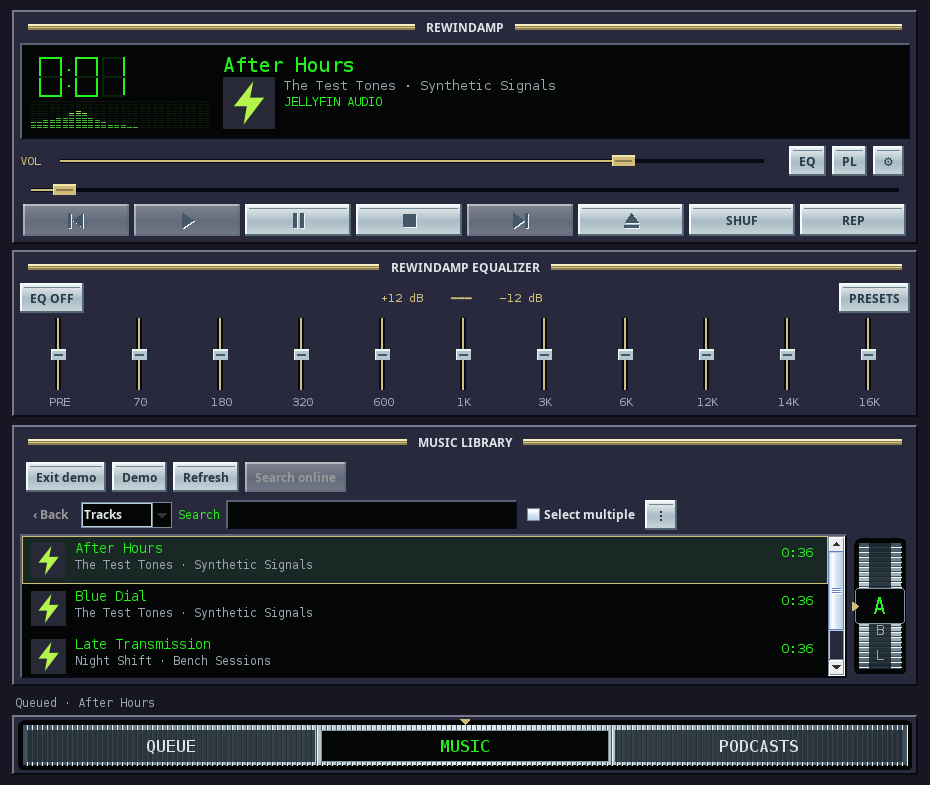
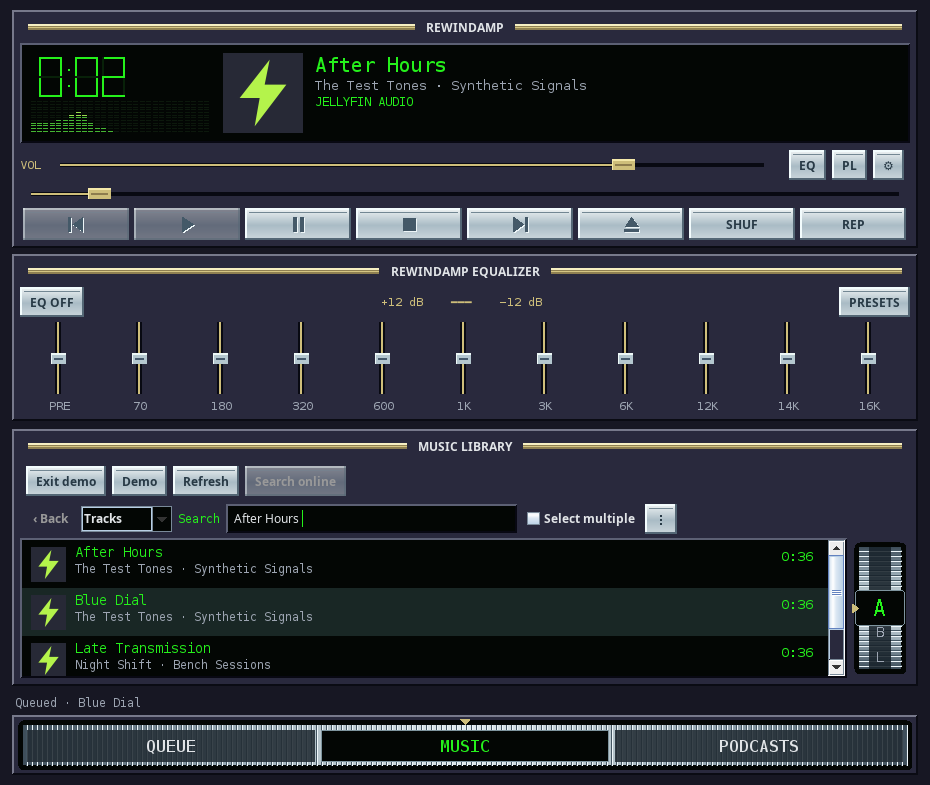
Polish Linux playback controls, artwork and Mixarr sign-in

diff --git a/linux/src/main/java/dev/rewindamp/DesktopApp.java b/linux/src/main/java/dev/rewindamp/DesktopApp.java
@@ -5,6 +5,7 @@ import java.awt.BorderLayout;
 import java.awt.Component;
 import java.awt.Dimension;
 import java.awt.GraphicsEnvironment;
+import java.awt.KeyboardFocusManager;
 import java.awt.Rectangle;
 import java.awt.event.*;
 import java.io.IOException;
@@ -27,6 +28,7 @@ import java.util.function.Consumer;
 import javax.swing.*;
 import javax.swing.event.DocumentEvent;
 import javax.swing.event.DocumentListener;
+import javax.swing.text.JTextComponent;
 import org.json.JSONArray;
 import org.json.JSONObject;
 
@@ -35,6 +37,7 @@ final class DesktopApp {
     private final Path data;
     private final DesktopStore preferences;
     private final JFrame frame = new JFrame("Rewindamp");
+    private final java.awt.Image appIcon = new ImageIcon(DesktopApp.class.getResource("/dev.rewindamp.png")).getImage();
     private final ExecutorService io = Executors.newFixedThreadPool(5);
     private final JTabbedPane tabs = new JTabbedPane();
     private final Title title = new Title();
@@ -98,6 +101,7 @@ final class DesktopApp {
         player = new DesktopPlayer(preferences, this::playerChanged, this::say);
         mediaKeys = new DesktopMediaKeys(this::mediaCommand);
         mixarr = new DesktopMixarr(frame, io, this::say);
+        frame.setIconImage(appIcon);
         frame.setDefaultCloseOperation(WindowConstants.DO_NOTHING_ON_CLOSE);
         frame.addWindowListener(new WindowAdapter() {
             @Override public void windowClosing(WindowEvent event) { close(); }
@@ -144,11 +148,55 @@ final class DesktopApp {
         });
         searchTimer.setRepeats(false);
         frame.setContentPane(content);
+        installShortcuts();
         frame.setVisible(true);
         if (Boolean.getBoolean("rewindamp.demo")) demo();
         playerChanged();
         restore();
         networkTimer.setRepeats(false);
+    }
+
+    private void installShortcuts() {
+        shortcut(KeyEvent.VK_SPACE, 0, player::toggle);
+        shortcut(KeyEvent.VK_LEFT, 0, () -> jump(false));
+        shortcut(KeyEvent.VK_RIGHT, 0, () -> jump(true));
+        shortcut(KeyEvent.VK_LEFT, InputEvent.CTRL_DOWN_MASK, () -> player.skip(-1));
+        shortcut(KeyEvent.VK_RIGHT, InputEvent.CTRL_DOWN_MASK, () -> player.skip(1));
+        shortcut(KeyEvent.VK_MINUS, InputEvent.CTRL_DOWN_MASK, () -> volume.setValue(volume.getValue() - 5));
+        shortcut(KeyEvent.VK_EQUALS, InputEvent.CTRL_DOWN_MASK, () -> volume.setValue(volume.getValue() + 5));
+        shortcut(KeyEvent.VK_F, InputEvent.CTRL_DOWN_MASK, () -> {
+            tabs.setSelectedIndex(0);
+            search.requestFocusInWindow();
+            search.selectAll();
+        });
+    }
+
+    private void shortcut(int key, int modifiers, Runnable action) {
+        KeyStroke stroke = KeyStroke.getKeyStroke(key, modifiers, modifiers == 0);
+        JRootPane root = frame.getRootPane();
+        root.getInputMap(JComponent.WHEN_IN_FOCUSED_WINDOW).put(stroke, stroke);
+        root.getActionMap().put(stroke, new AbstractAction() {
+            @Override public void actionPerformed(ActionEvent event) {
+                if (MenuSelectionManager.defaultManager().getSelectedPath().length != 0) return;
+                Component focus = KeyboardFocusManager.getCurrentKeyboardFocusManager().getFocusOwner();
+                if (!allowsTransportShortcut(key, focus)) return;
+                action.run();
+            }
+        });
+    }
+
+    static boolean allowsTransportShortcut(int key, Component focus) {
+        if (key != KeyEvent.VK_SPACE && key != KeyEvent.VK_LEFT && key != KeyEvent.VK_RIGHT) return true;
+        return !(focus instanceof JTextComponent || focus instanceof JComboBox<?> || focus instanceof JSlider
+            || focus instanceof JToggleButton || key == KeyEvent.VK_SPACE && focus instanceof AbstractButton);
+    }
+
+    private void jump(boolean forward) {
+        Track track = current();
+        if (track == null) return;
+        long seconds = player.active == podcastDeck ? forward ? 30 : -15 : forward ? 5 : -5;
+        long target = player.position() + seconds * 1000;
+        player.seek(track.duration > 0 ? Math.min(target, track.duration - 1) : target);
     }
 
     private JPanel header() {
@@ -160,16 +208,15 @@ final class DesktopApp {
         clock.setAlignmentX(Component.CENTER_ALIGNMENT);
         spectrum.setAlignmentX(Component.CENTER_ALIGNMENT);
         readout.add(meters, BorderLayout.WEST);
-        JPanel details = new JPanel(new BorderLayout(9, 0));
+        JPanel details = new JPanel(new BorderLayout(12, 0));
         details.setOpaque(false);
-        details.add(title, BorderLayout.NORTH);
-        JPanel metadata = new JPanel(new BorderLayout(9, 0));
-        metadata.setOpaque(false);
-        metadata.add(artwork, BorderLayout.WEST);
+        details.add(artwork, BorderLayout.WEST);
         subtitle.setForeground(MUTED);
-        JPanel labels = column(subtitle, audioSource);
+        JPanel labels = column(title, subtitle, audioSource);
         labels.setOpaque(false);
-        metadata.add(labels, BorderLayout.CENTER);
+        JPanel metadata = new JPanel(new BorderLayout());
+        metadata.setOpaque(false);
+        metadata.add(labels, BorderLayout.NORTH);
         details.add(metadata);
         readout.add(details);
         readout.add(upNext, BorderLayout.EAST);
@@ -496,11 +543,11 @@ final class DesktopApp {
     private record Connection<T>(T api, boolean saved) {}
     record Login(String address, String user, String password) {}
 
-    static Login login(JFrame parent, String title, String address, boolean username) {
+    static Login login(Component parent, String title, String address, boolean username) {
         return login(parent, title, address, username, "");
     }
 
-    private static Login login(JFrame parent, String title, String address, boolean username, String initialUser) {
+    private static Login login(Component parent, String title, String address, boolean username, String initialUser) {
         JTextField server = new JTextField(address, 33), user = new JTextField(initialUser, 33);
         JPasswordField pass = new JPasswordField(33);
         JPanel input = column(new JLabel("Server address"), server);
@@ -1343,17 +1390,13 @@ final class DesktopApp {
     private void minimizeToTray() {
         if (!java.awt.SystemTray.isSupported()) { frame.setState(JFrame.ICONIFIED); return; }
         if (tray == null) try {
-            java.awt.image.BufferedImage icon = new java.awt.image.BufferedImage(32, 32, java.awt.image.BufferedImage.TYPE_INT_ARGB);
-            var g = icon.createGraphics();
-            g.setColor(SHELL); g.fillRect(0, 0, 32, 32);
-            g.setColor(GREEN); g.fillPolygon(new int[]{9, 24, 9}, new int[]{6, 16, 26}, 3);
-            g.dispose();
             java.awt.PopupMenu menu = new java.awt.PopupMenu();
             java.awt.MenuItem show = new java.awt.MenuItem("Show Rewindamp"), quit = new java.awt.MenuItem("Quit");
             show.addActionListener(event -> SwingUtilities.invokeLater(this::showWindow));
             quit.addActionListener(event -> SwingUtilities.invokeLater(this::close));
             menu.add(show); menu.add(quit);
-            tray = new java.awt.TrayIcon(icon, "Rewindamp", menu);
+            tray = new java.awt.TrayIcon(appIcon, "Rewindamp", menu);
+            tray.setImageAutoSize(true);
             tray.addActionListener(event -> SwingUtilities.invokeLater(this::showWindow));
             java.awt.SystemTray.getSystemTray().add(tray);
         } catch (java.awt.AWTException e) { say("System tray unavailable"); return; }
@@ -1420,7 +1463,7 @@ final class DesktopApp {
         previous.setEnabled(deck != null && deck.adjacent(-1, false) >= 0);
         following.setEnabled(deck != null && deck.adjacent(1, false) >= 0);
         transport.add(previous);
-        if (podcast) transport.add(button("−15 s", () -> player.seek(player.position() - 15_000)));
+        if (podcast) transport.add(button("−15 s", () -> jump(false)));
         JButton play = transport(podcast && player.playing ? "pause" : "play", podcast && player.playing ? "Pause" : "Play",
             podcast ? player::toggle : player::resume);
         play.setEnabled(current != null && (podcast || !player.playing));
@@ -1433,7 +1476,7 @@ final class DesktopApp {
             transport.add(pause);
             transport.add(stop);
         }
-        if (podcast) transport.add(button("+30 s", () -> player.seek(player.position() + 30_000)));
+        if (podcast) transport.add(button("+30 s", () -> jump(true)));
         transport.add(following);
         if (podcast) transport.add(button(deck.speed + "×", this::speed));
         else {
@@ -1577,7 +1620,7 @@ final class DesktopApp {
         JellyfinApi api = jellyfin;
         String key = artworkKey(current);
         artworkID = key;
-        async(() -> image(deck, api, current, 80), icon -> {
+        async(() -> image(deck, api, current, Artwork.SIZE), icon -> {
             if (deck != musicDeck || !key.equals(artworkID) || current() != current) return;
             artwork.picture = icon.getImage();
             artwork.repaint();
@@ -1626,8 +1669,8 @@ final class DesktopApp {
             case "PlayPause" -> player.toggle();
             case "Pause" -> player.pause();
             case "Stop" -> { player.pause(); player.seek(0); }
-            case "Next" -> { if (podcast) player.seek(player.position() + 30_000); else player.skip(1); }
-            case "Previous" -> { if (podcast) player.seek(player.position() - 15_000); else player.skip(-1); }
+            case "Next" -> { if (podcast) jump(true); else player.skip(1); }
+            case "Previous" -> { if (podcast) jump(false); else player.skip(-1); }
             case "Seek" -> player.seek(player.position() + position / 1000);
             case "SetPosition" -> player.seek(position / 1000);
             case "Volume" -> volume.setValue((int)Math.round(position / 10.0));
@@ -1798,6 +1841,13 @@ final class DesktopApp {
             // The viewport supplies the width. A fixed cell size keeps Swing from measuring every item.
             list.setFixedCellWidth(1);
             list.setSelectionMode(ListSelectionModel.MULTIPLE_INTERVAL_SELECTION);
+            // These lists have one column. Keep their vertical navigation and Ctrl+Space selection.
+            InputMap keys = list.getInputMap();
+            keys.put(KeyStroke.getKeyStroke(KeyEvent.VK_SPACE, 0), "none");
+            for (int key : new int[]{KeyEvent.VK_LEFT, KeyEvent.VK_RIGHT}) {
+                keys.put(KeyStroke.getKeyStroke(key, 0), "none");
+                keys.put(KeyStroke.getKeyStroke(key, InputEvent.CTRL_DOWN_MASK), "none");
+            }
             scroll.getVerticalScrollBar().setUnitIncrement(48);
             scroll.setBorder(bevel(true));
         }

diff --git a/linux/src/main/java/dev/rewindamp/DesktopMixarr.java b/linux/src/main/java/dev/rewindamp/DesktopMixarr.java
@@ -146,11 +146,12 @@ final class DesktopMixarr implements AutoCloseable {
             }, cleared -> say(cleared ? "Mixarr disconnected" : "Could not clear the desktop keyring entry."));
             return;
         }
-        DesktopApp.Login login = DesktopApp.login(parent, "Connect Mixarr", store.read("mixarr-address").optString("value",
+        DesktopApp.Login login = DesktopApp.login(window, "Connect Mixarr", store.read("mixarr-address").optString("value",
             "https://mixarr.snappyapps.com.au"), true);
         if (login == null) return;
         String key = scope;
         DesktopStore account = store;
+        say("Signing in to Mixarr…");
         work(() -> {
             MixarrApi connected = MixarrApi.login(login.address(), login.user(), login.password());
             boolean saved = DesktopSecrets.save(key, new JSONObject().put("server", connected.server)
@@ -164,7 +165,30 @@ final class DesktopMixarr implements AutoCloseable {
             refreshActivity();
             if (!search.getText().isBlank() && !YouTubeSelection.isLink(search.getText().strip())) runSearch();
             else poll();
+        }, error -> {
+            String help = loginHelp(error);
+            say(help);
+            if (window.isShowing()) JOptionPane.showMessageDialog(window, help, "Mixarr sign-in failed", JOptionPane.ERROR_MESSAGE);
         });
+    }
+
+    static String loginHelp(Exception error) {
+        if (error instanceof MixarrApi.Failure failure) {
+            return switch (failure.code) {
+                case 401, 403 -> "Mixarr rejected the sign-in. Check your Mixarr username and password.";
+                case 404, 405 -> "This address did not reach the Mixarr sign-in API. Enter the Mixarr server address.";
+                case 429 -> "Mixarr is limiting sign-in attempts. Wait a moment and try again.";
+                default -> "Mixarr could not sign you in (HTTP " + failure.code + "). Check the server and try again.";
+            };
+        }
+        if (error instanceof IllegalArgumentException)
+            return "Enter the full HTTPS address for Mixarr.";
+        if (error instanceof javax.net.ssl.SSLException)
+            return "Rewindamp could not verify the Mixarr HTTPS connection. Check the address and server certificate.";
+        if (error instanceof org.json.JSONException || error instanceof ClassCastException
+            || "Mixarr did not return a session.".equals(error.getMessage()))
+            return "The server did not return a valid Mixarr session. Check the address and server setup.";
+        return "Could not connect to Mixarr. Check the server address and your network connection.";
     }
 
     private record Connected(MixarrApi api, boolean saved) {}
@@ -406,6 +430,10 @@ final class DesktopMixarr implements AutoCloseable {
     }
 
     private <T> void work(Callable<T> task, Consumer<T> success) {
+        work(task, success, error -> say(MixarrApi.message(error)));
+    }
+
+    private <T> void work(Callable<T> task, Consumer<T> success, Consumer<Exception> failure) {
         long current = generation;
         busy = true;
         submit.setEnabled(false);
@@ -423,7 +451,7 @@ final class DesktopMixarr implements AutoCloseable {
                     if (current != generation) return;
                     busy = false;
                     submit.setEnabled(true);
-                    say(MixarrApi.message(e));
+                    failure.accept(e);
                 });
             }
         });

diff --git a/linux/src/test/java/dev/rewindamp/DesktopIntegrationTest.java b/linux/src/test/java/dev/rewindamp/DesktopIntegrationTest.java
@@ -28,8 +28,10 @@ public final class DesktopIntegrationTest {
         try {
             testDsp();
             testSkin();
+            testShortcutFocus();
             testChapters();
             testPodcastSignInErrors();
+            testMixarrSignInErrors();
             testFixture(temp);
             testAudio(temp);
             if (List.of(args).contains("--shared-fixture")) testSharedFixture(temp);
@@ -38,6 +40,43 @@ public final class DesktopIntegrationTest {
             try (var files = Files.walk(temp)) {
                 for (Path file : files.sorted(Comparator.reverseOrder()).toList()) Files.deleteIfExists(file);
             }
+        }
+    }
+
+    private static void testShortcutFocus() throws Exception {
+        javax.swing.SwingUtilities.invokeAndWait(() -> {
+            int space = java.awt.event.KeyEvent.VK_SPACE, left = java.awt.event.KeyEvent.VK_LEFT;
+            var search = new javax.swing.JTextField();
+            assert !DesktopApp.allowsTransportShortcut(space, search);
+            assert !DesktopApp.allowsTransportShortcut(left, search);
+            assert !DesktopApp.allowsTransportShortcut(left, new javax.swing.JSlider());
+            assert !DesktopApp.allowsTransportShortcut(space, new javax.swing.JButton());
+            assert !DesktopApp.allowsTransportShortcut(left, new javax.swing.JComboBox<>());
+            assert DesktopApp.allowsTransportShortcut(space, new javax.swing.JList<>());
+            assert DesktopApp.allowsTransportShortcut(left, new javax.swing.JList<>());
+        });
+    }
+
+    private static void testMixarrSignInErrors() throws Exception {
+        HttpServer server = HttpServer.create(new InetSocketAddress("127.0.0.1", 0), 0);
+        server.createContext("/api/v1/login", exchange -> {
+            try (exchange) { exchange.sendResponseHeaders(401, -1); }
+        });
+        server.start();
+        try {
+            String address = "http://127.0.0.1:" + server.getAddress().getPort();
+            try {
+                MixarrApi.login(address, "fixture", "synthetic incorrect password");
+                throw new AssertionError("Expected Mixarr sign-in to fail");
+            } catch (MixarrApi.Failure error) {
+                assert DesktopMixarr.loginHelp(error).contains("username and password");
+            }
+            assert DesktopMixarr.loginHelp(new MixarrApi.Failure(404)).contains("server address");
+            assert DesktopMixarr.loginHelp(new MixarrApi.Failure(429)).contains("limiting");
+            assert DesktopMixarr.loginHelp(new javax.net.ssl.SSLHandshakeException("fixture"))
+                .contains("certificate");
+        } finally {
+            server.stop(0);
         }
     }
 

diff --git a/linux/resources/LauncherIcon.java b/linux/resources/LauncherIcon.java
@@ -1,0 +1,25 @@
+import java.awt.Color;
+import java.awt.RenderingHints;
+import java.awt.geom.RoundRectangle2D;
+import java.awt.image.BufferedImage;
+import java.io.File;
+import javax.imageio.ImageIO;
+
+class LauncherIcon {
+    public static void main(String[] args) throws Exception {
+        BufferedImage foreground = ImageIO.read(new File(args[0]));
+        // Android's adaptive icon shows the centered 72 dp of its 108 dp layers.
+        int crop = foreground.getWidth() * 2 / 3;
+        int offset = (foreground.getWidth() - crop) / 2;
+        int size = 256;
+        BufferedImage icon = new BufferedImage(size, size, BufferedImage.TYPE_INT_ARGB);
+        var graphics = icon.createGraphics();
+        graphics.setRenderingHint(RenderingHints.KEY_ANTIALIASING, RenderingHints.VALUE_ANTIALIAS_ON);
+        graphics.setRenderingHint(RenderingHints.KEY_INTERPOLATION, RenderingHints.VALUE_INTERPOLATION_BICUBIC);
+        graphics.setColor(Color.decode(args[1]));
+        graphics.fill(new RoundRectangle2D.Float(0, 0, size, size, 54, 54));
+        graphics.drawImage(foreground, 0, 0, size, size, offset, offset, offset + crop, offset + crop, null);
+        graphics.dispose();
+        if (!ImageIO.write(icon, "png", new File(args[2]))) throw new IllegalStateException("Could not write the launcher icon");
+    }
+}

diff --git a/linux/src/main/java/dev/rewindamp/DesktopTheme.java b/linux/src/main/java/dev/rewindamp/DesktopTheme.java
@@ -369,8 +369,9 @@ final class DesktopTheme {
     }
 
     static final class Artwork extends JComponent {
+        static final int SIZE = 80;
         java.awt.Image picture;
-        Artwork() { setPreferredSize(new Dimension(52, 52)); setToolTipText("Current artwork"); }
+        Artwork() { setPreferredSize(new Dimension(SIZE, SIZE)); setToolTipText("Current artwork"); }
         @Override protected void paintComponent(Graphics graphics) {
             Graphics2D g = (Graphics2D)graphics.create();
             int size = Math.min(getWidth(), getHeight());

diff --git a/linux/README.md b/linux/README.md
@@ -24,6 +24,19 @@ Use **Queue** for either saved queue. Click a track to append it, use **Select m
 
 Desktop copies, metadata and queues are private to the Linux user and account under `${XDG_DATA_HOME:-~/.local/share}/rewindamp`. The AppImage uses the same storage and keyring entries as the earlier Debian package. Removing a desktop copy leaves the server file intact. Podcast downloads default to unmetered networks as reported by NetworkManager. If a setup has no metering information, enable **Allow metered downloads** explicitly to download copies.
 
+## Keyboard shortcuts
+
+| Keys | Action |
+| --- | --- |
+| Space | Play or pause |
+| Left / Right | Seek back or forward 5 seconds in music, or back 15 / forward 30 seconds in podcasts |
+| Ctrl+Left / Ctrl+Right | Previous or next track or episode |
+| Ctrl+Minus / Ctrl+Equals | Volume down or up |
+| Ctrl+F | Focus music search |
+
+Text fields, menus and focused controls retain their usual keyboard behavior. Up and Down
+still navigate the library and letter wheel, and Enter opens or queues the selected row.
+
 ## Build and test
 
 Run from the checkout root with JDK 17, curl, and the host playback dependencies installed.

diff --git a/docs/releases/0.4.23.md b/docs/releases/0.4.23.md
@@ -1,0 +1,8 @@
+# Rewindamp 0.4.23
+
+Linux adds Space to play and pause, Left and Right to seek, Ctrl+Left and Ctrl+Right to skip tracks or episodes, Ctrl+Minus and Ctrl+Equals to adjust volume, and Ctrl+F to focus music search. Music seeks by five seconds and podcasts use the existing back 15 and forward 30 second intervals. Search fields and focused controls keep their native keyboard behavior.
+
+The Linux now-playing cover is larger and sits to the left of the track title and metadata.
+Linux uses the Android launcher artwork for its app menu, window and tray icons. Mixarr sign-in failures show a dialog with guidance based on the cause.
+
+Validated the Linux AppImage in an isolated desktop session, including playback keys, seek distances, keyboard focus, the now-playing layout and the bundled icon. The isolated Jellyfin, podcast and Mixarr checks passed, as did the Android debug build and lint.

diff --git a/README.md b/README.md
@@ -53,7 +53,7 @@ password. Podcast discovery uses the Rewindamp server and requires no Apple acco
 Podcast controls rewind 15 seconds or advance 30 seconds; playback speed, resume position,
 played/dismissed/reset actions and app-private phone downloads are separate from music.
 The clean Android application ID is `dev.rewindamp`. It installs separately from Jellyamp;
-old Jellyamp app data is not automatically migrated. Current source version is **0.4.21**.
+old Jellyamp app data is not automatically migrated. Current source version is **0.4.23**.
 Music and podcast decks share a horizontal metal destination wheel for Music / Podcasts /
 Queue, including their connection screens. Dragging highlights each newly selected
 destination in green and gives a haptic tick at every detent, like the vertical letter
